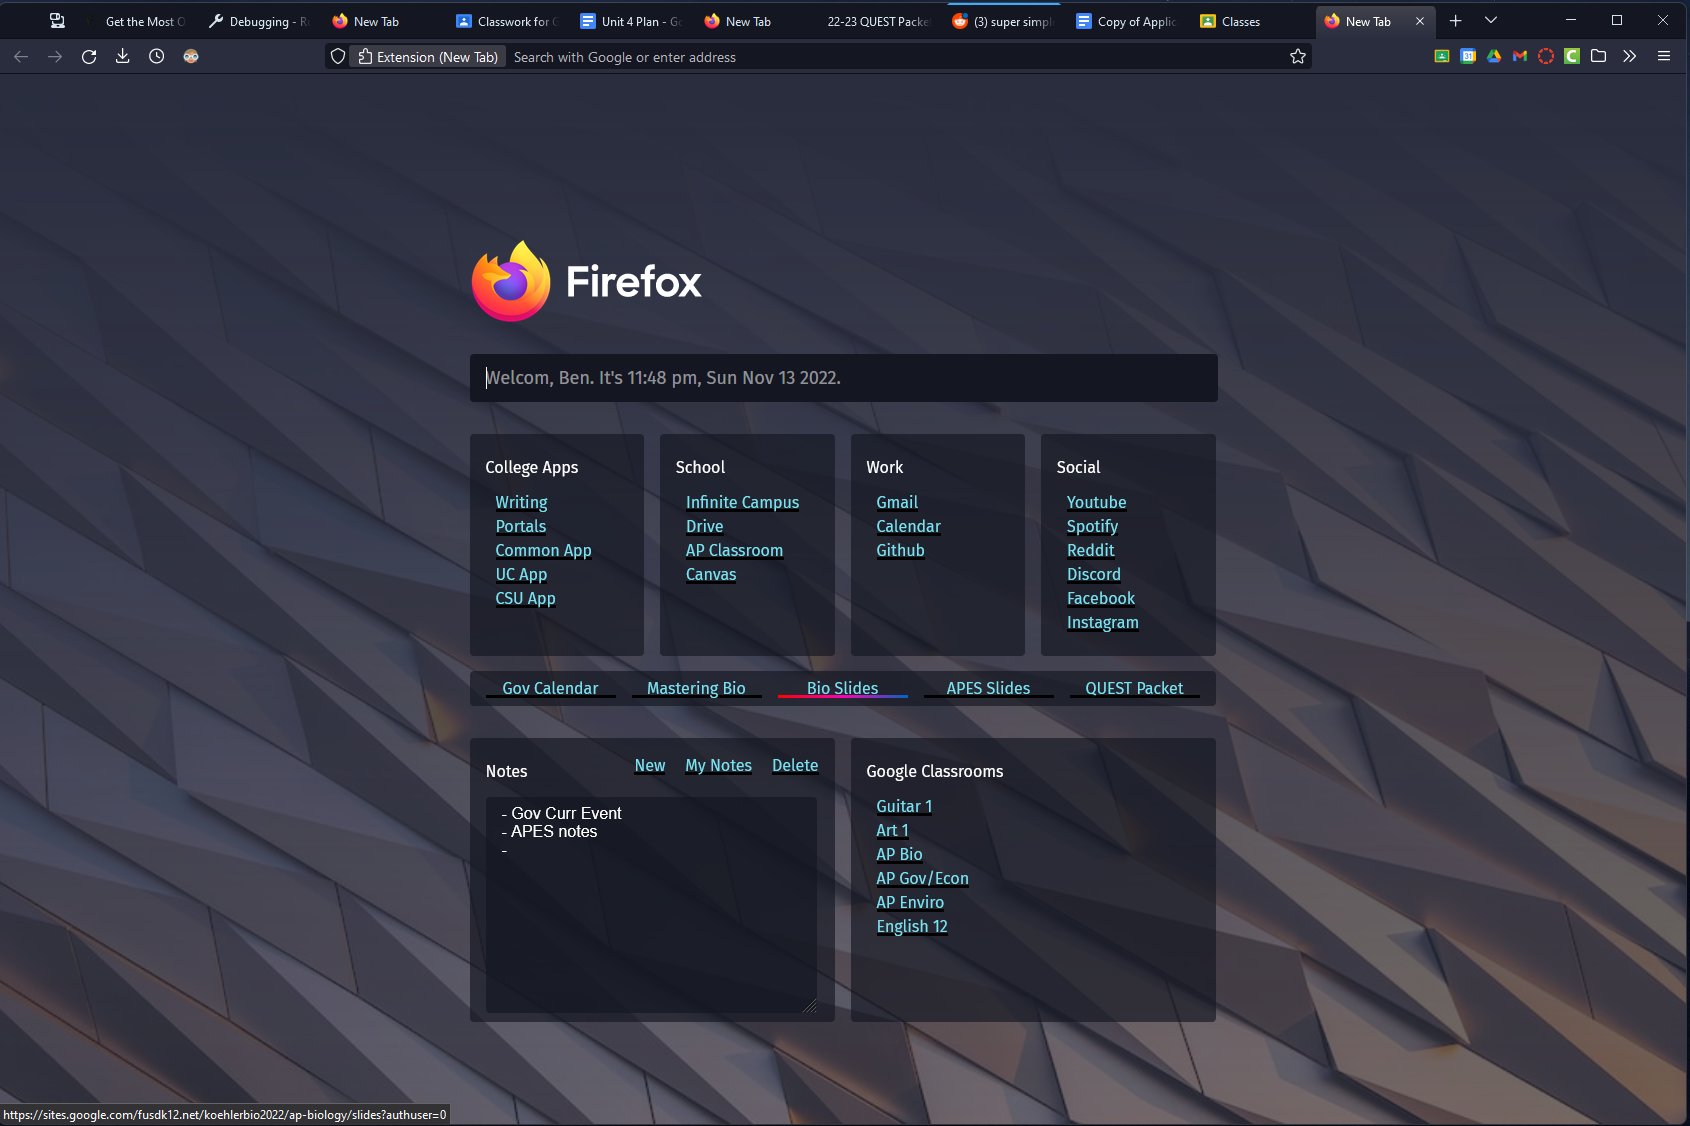
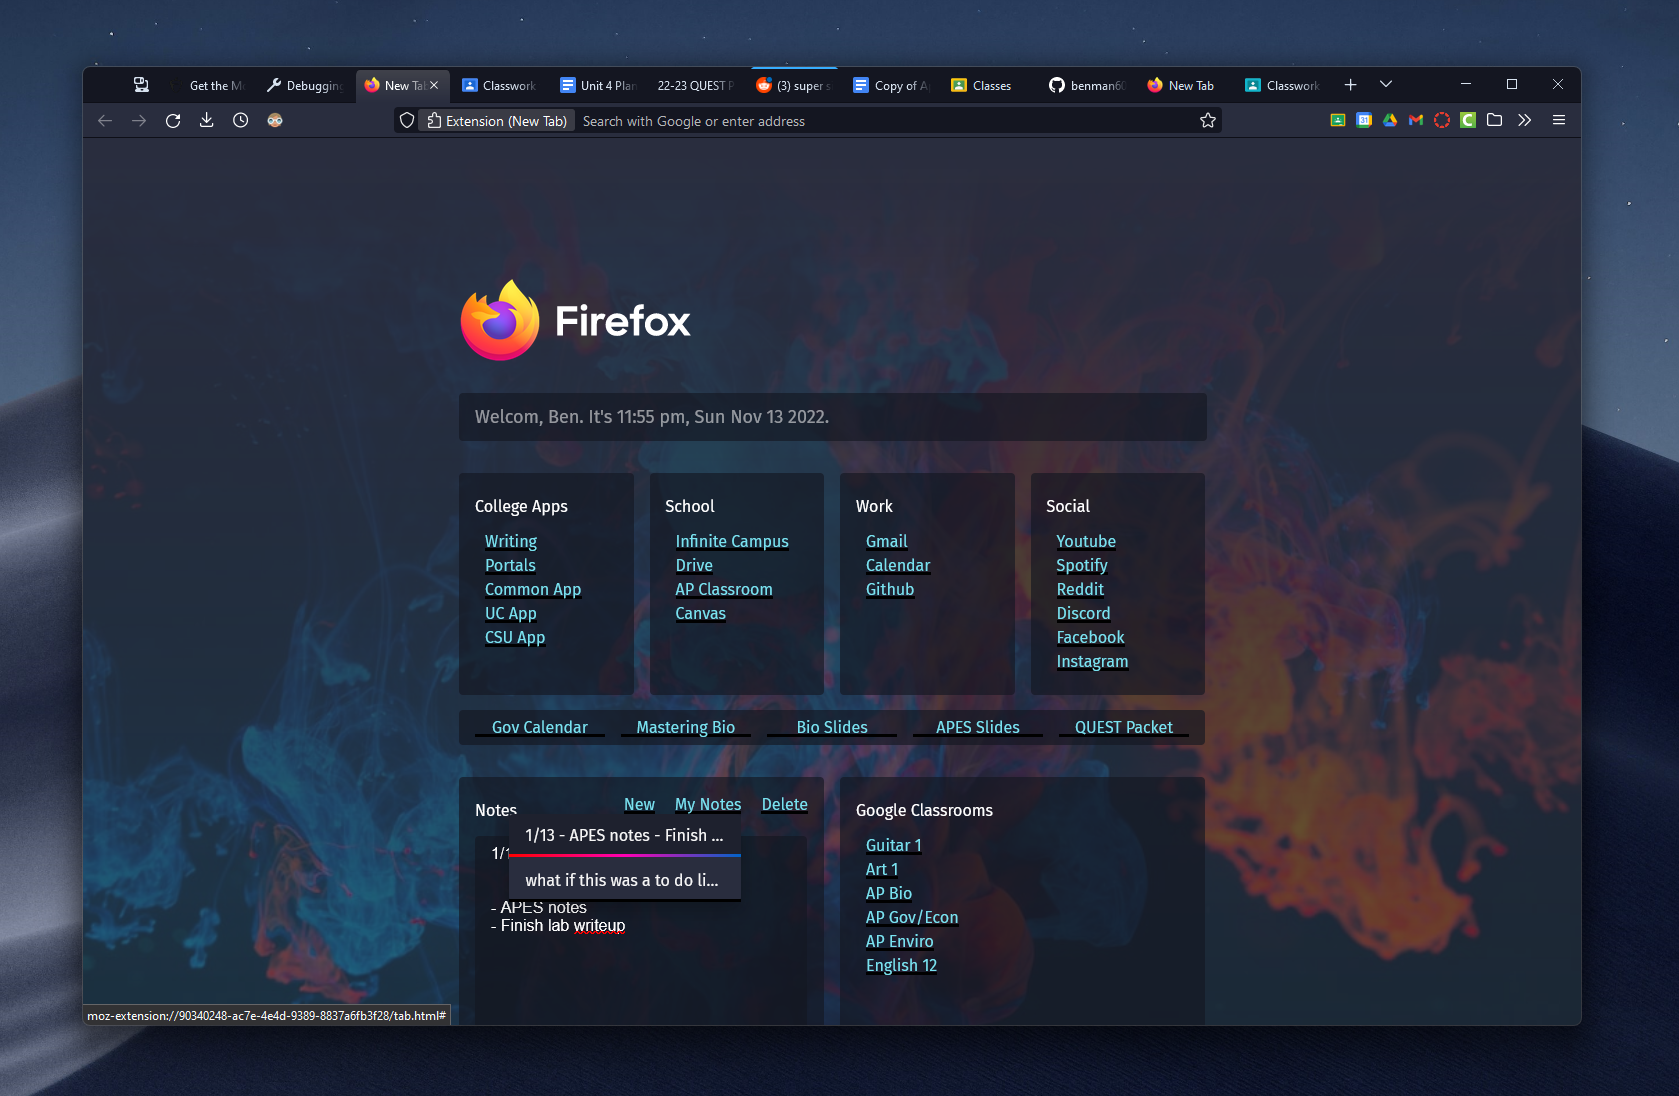
update readme

diff --git a/styles.css b/styles.css
@@ -193,7 +193,7 @@ a:hover {
     text-decoration: none;
     display: block;
     text-overflow: ellipsis;
-    max-width: 500px;
+    max-width: 200px;
     white-space: nowrap;
     overflow: hidden;
 }

diff --git a/README.md b/README.md
@@ -1,3 +1,9 @@
 Custom newtab for Firefox.
 
 ![Screenshot](images/screenshot.png)
+
+### Features
+- Local notes
+- Dynamic background image
+- Smart search bar
+    - `y query` for Youtube, `d query` for Google Drive, etc.
